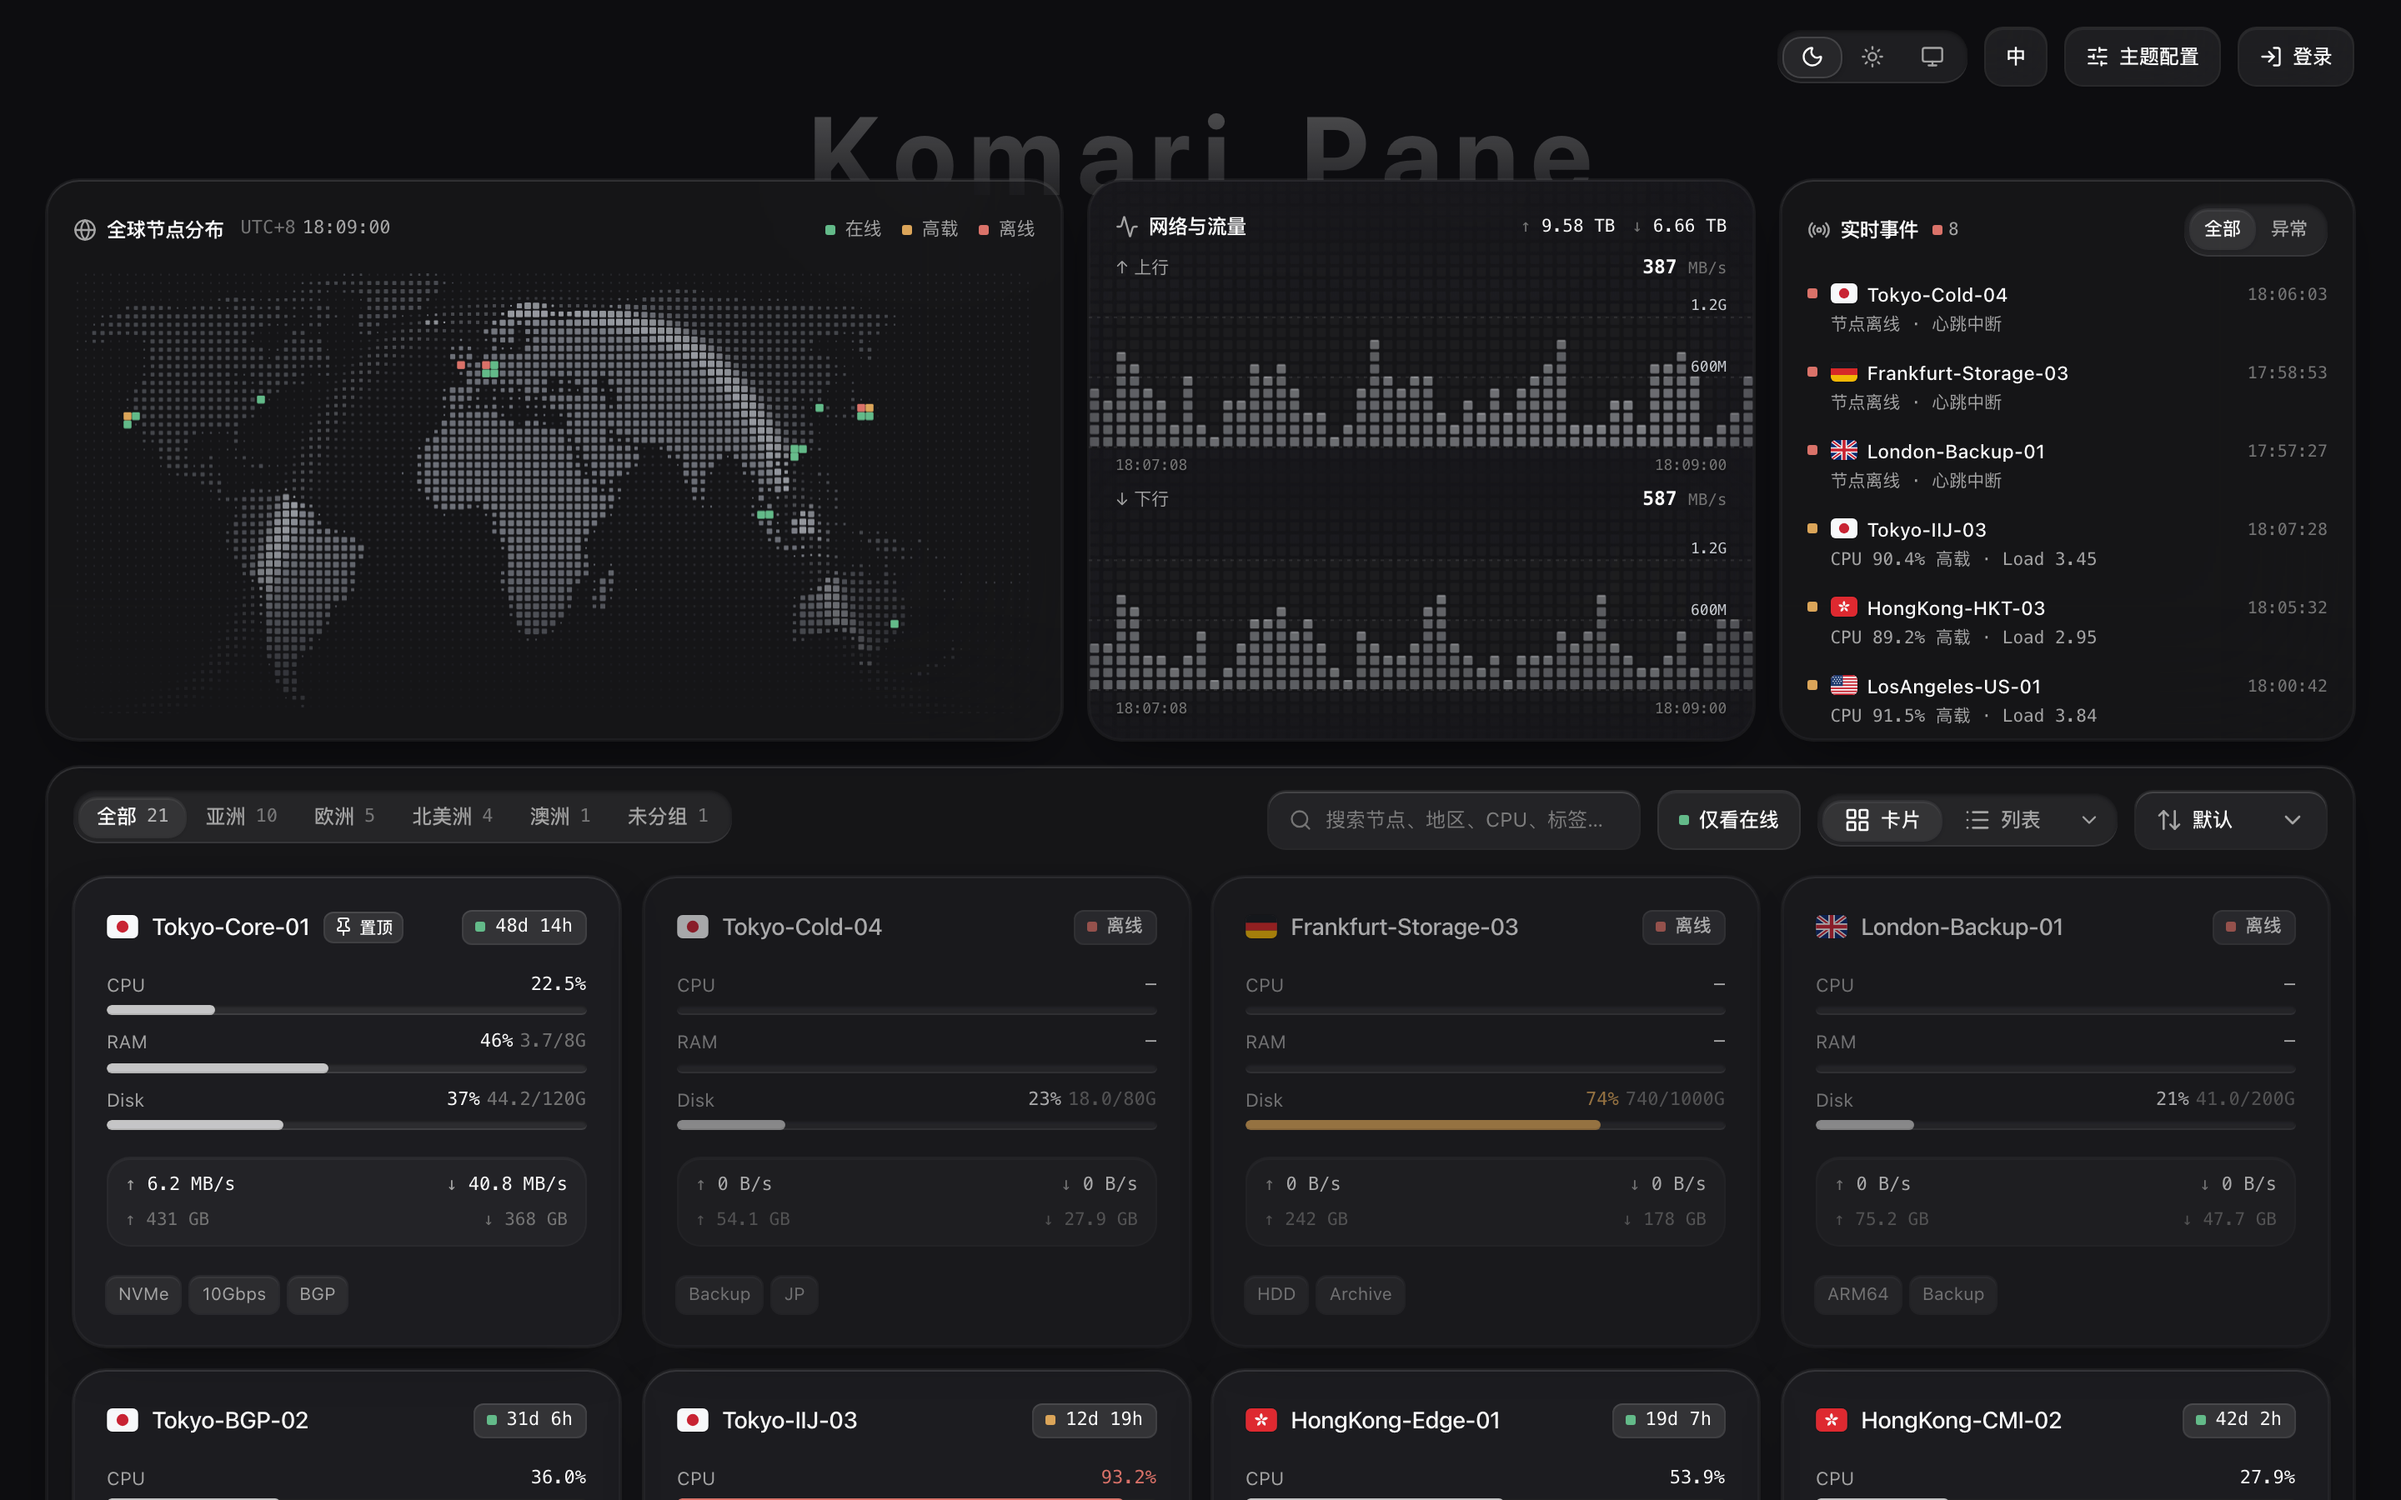
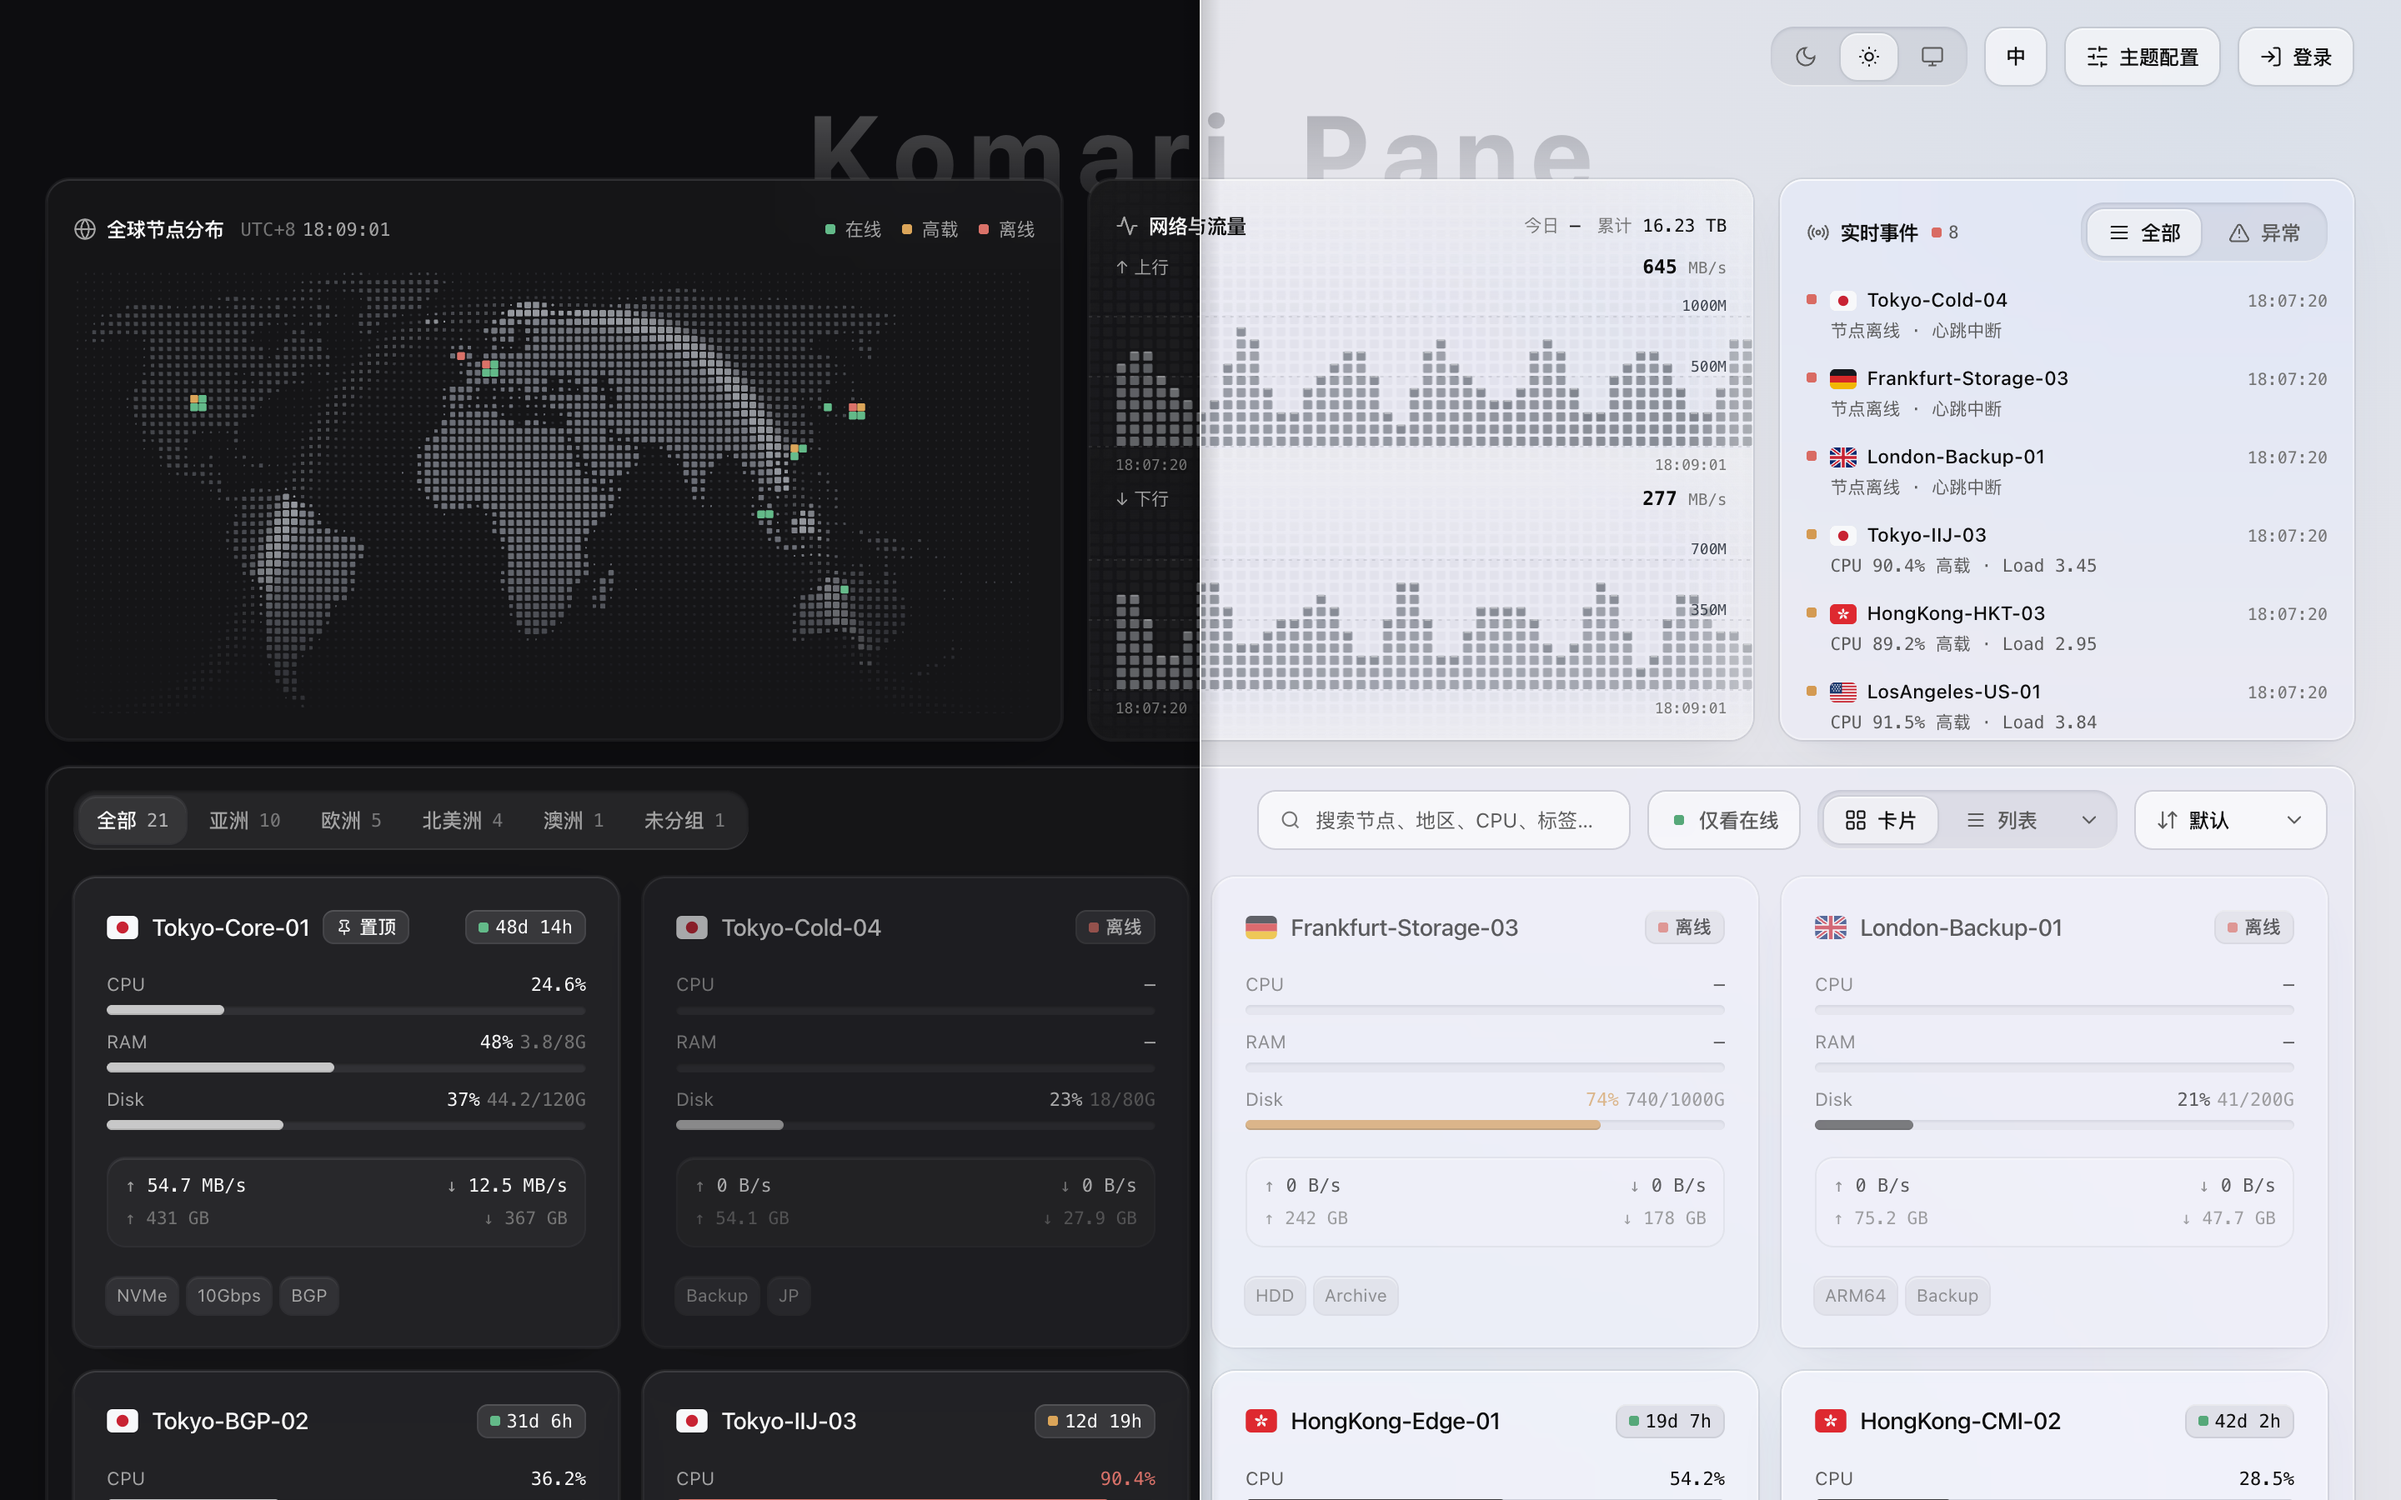
docs: simplify README features and update showcase previews

diff --git a/README.md b/README.md
@@ -17,25 +17,19 @@
 
 ### 核心特性
 
-- **Solid Glass 三层物理材质与性能模式**
-  - 严格区分三层玻璃厚度：`glass-panel`（顶部总览面板与工具栏）、`bg-card`（节点卡片、统计卡与图表卡）与 `bg-popover`（弹出层与详情弹窗），表面保持中性灰并仅以语义色标示运行状态。
-  - 原生支持 **深色 / 浅色 / 跟随系统** 外观切换（同步 `localStorage["appearance"]`）与 **中 / 英** 双语切换（同步 `localStorage["language"]`）。
-  - 支持 `reduce_transparency`（`data-glass="opaque"`）低透明高性能模式，在低性能设备上关闭 backdrop-filter 模糊的同时保留边缘高光与层级对比。
+- **外观与材质**：采用 Solid Glass 玻璃视觉风格，支持深色 / 浅色 / 跟随系统切换、中英双语切换，以及低透明高性能模式。
+- **世界地图**：点阵式全球节点分布图，支持实时太阳晨昏线、重合节点聚合或展开显示，点击可直达节点详情。
+- **遥测与历史图表**：实时展示全网与单节点网络速率及流量汇总，详情页支持 CPU / 内存负载历史，以及多轨 Ping 延迟与丢包可视化。
+- **多视图与筛选**：提供标准卡片、紧凑卡片与列表三种视图，支持分组、搜索、仅看在线筛选及多维度排序。
+- **访客偏好配置**：内置主题配置抽屉，访客可按个人习惯调整界面显示，并支持一键恢复站点默认。
 
-- **208×96 半调点阵世界地图**
-  - 基于 `208×96` Halftone Pattern Waves 点阵渲染全球轮廓，实时绘制太阳晨昏线（Solar Terminator）与 `UTC+8` 时钟。
-  - 支持 `cluster`（聚合气泡）与 `spread`（微距展开）两种重合节点展示模式，鼠标悬浮自动钳位在视口内并可点击直达节点详情。
-  - 内置智能城市关键词与 ISO-2 地区码双级坐标解析，未配置地域或无法识别坐标的节点自动跳过绘制，避免错误落点。
+### 界面预览
 
-- **5.5×5.5 Micro Slats 遥测图表**
-  - 首页「网络与流量」面板采用 `5.5×5.5` 微型条栅 Canvas 实时绘制全网聚合上/下行速率，右上角真实汇总全节点 `↑ 总上行 / ↓ 总下行` 累计流量。
-  - 节点详情弹窗提供自适应速率刻度的单节点网络图表，以及 **CPU / RAM 负载历史** 与 **多轨 Ping 延迟图表**（1–3 轨独立分隔，支持点击图例芯片单轨全高放大）。
-  - Ping 图表支持 **L1 丢包与超时可视化**：部分丢包在柱顶以警示红提示，100% 超时渲染半透明红柱与亮红顶盖。
-
-- **多形态视图与访客本地偏好**
-  - 支持 **标准卡片（`comfortable`）**、**紧凑卡片（`compact`）** 与 **内凹表体列表视图（Recessed Table）** 三种浏览形态。
-  - 全链路速率与流量采用自适应单位（`B/s`–`GB/s` 与 `B`–`PB`），所有实时数字启用 `tabular-nums` 等宽对齐防抖动；支持大洲规范化分组标签栏、关键词搜索、仅看在线筛选与多维度排序。
-  - 访客可通过右上角「主题配置」抽屉按个人习惯覆盖面板显隐与性能模式（持久化于 `localStorage["komari_pane_prefs_v1"]`），并支持**一键恢复站点默认**。
+| 列表视图（浅色主题） | 主题配置抽屉 |
+| :---: | :---: |
+| ![列表视图](./docs/table-view.png) | ![主题配置抽屉](./docs/theme-settings.png) |
+| **节点详情 · 负载与网络历史** | **节点详情 · 多轨 Ping 延迟** |
+| ![节点详情负载历史](./docs/detail-load.png) | ![节点详情 Ping 延迟](./docs/detail-ping.png) |
 
 ---
 
@@ -74,15 +68,19 @@ VITE_API_TARGET=http://127.0.0.1:25774 npm run dev
 
 ### Highlights
 
-- **Solid Glass 3-Tier Materiality**: Calibrated neutral glass hierarchy (`glass-panel`, `bg-card`, `bg-popover`) with Dark / Light / System appearance (`localStorage["appearance"]`), bilingual `zh-CN` / `en` UI (`localStorage["language"]`), and a `reduce_transparency` (`data-glass="opaque"`) high-performance mode.
+- **Appearance & Materiality**: Solid Glass styling with Dark / Light / System modes, Chinese & English UI, and a reduced-transparency performance mode.
+- **World Map**: Dot-matrix global node map with a live solar terminator, overlap clustering or spreading, and quick access to node details.
+- **Telemetry & Charts**: Live aggregate and per-node network throughput, traffic totals, CPU/RAM load history, and multi-track Ping latency with packet-loss visualization.
+- **Multiple Views & Filtering**: Switch between standard cards, compact cards, and table view, with group tabs, search, online filtering, and sorting.
+- **Visitor Preferences**: Built-in settings drawer for customizing local display options with one-click reset to site defaults.
 
-- **208×96 Halftone World Map**: Pattern Waves dot-matrix projection featuring a live solar terminator, UTC+8 clock, `cluster | spread` overlap modes, and smart city-keyword + ISO-2 coordinate resolution.
+### Screenshots
 
-- **5.5×5.5 Micro Slats Telemetry Charts**: High-precision canvas slat charts for aggregate and per-node network throughput, CPU/RAM load history, and multi-track Ping latency with L1 packet-loss / 100% timeout visualization and single-track zoom.
-
-- **Card, Compact & Recessed Table Views**: Supports `comfortable` / `compact` cards and a recessed table view with adaptive `B/s`–`GB/s` and `B`–`PB` units (`tabular-nums`), continent-normalized group tabs, and a visitor local preference drawer (`localStorage["komari_pane_prefs_v1"]`) with one-click reset to site defaults.
-
-- **Live Telemetry**: Streams node telemetry over Komari's `/api/clients` WebSocket. Billing and expiry figures are visible only when signed in and the billing display is enabled.
+| Table View (Light Theme) | Theme Settings Drawer |
+| :---: | :---: |
+| ![Table View](./docs/table-view.png) | ![Theme Settings Drawer](./docs/theme-settings.png) |
+| **Node Details · Load & Network History** | **Node Details · Multi-Track Ping Latency** |
+| ![Node Load History](./docs/detail-load.png) | ![Node Ping Latency](./docs/detail-ping.png) |
 
 ---
 ### Quick Start
